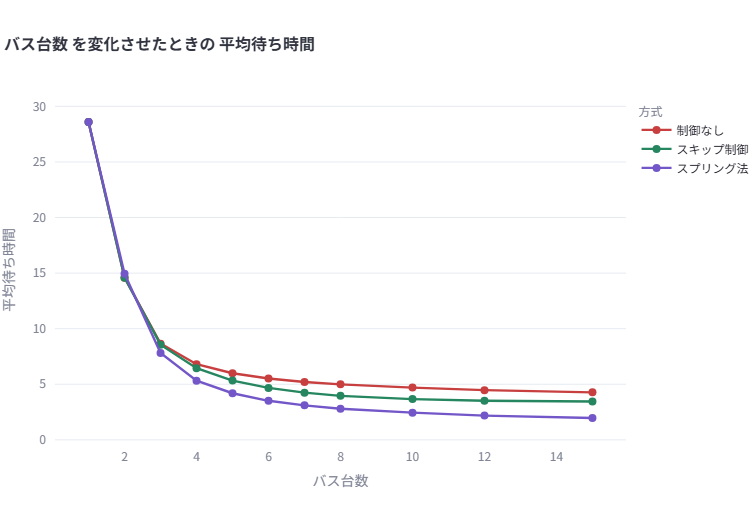
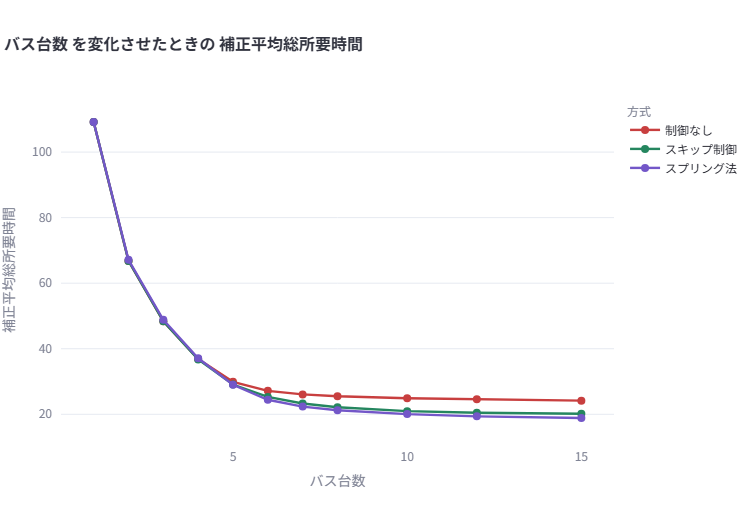
Refine presentation slides and conclusion flow

diff --git a/index.html b/index.html
@@ -14,14 +14,9 @@
   <main class="deck">
 
     <section class="slide cover">
-      <div class="frame">
-        <div class="stack" style="align-content:center;gap:2.4vh">
-          <div class="eyebrow">最近の活動紹介 / 15分発表</div>
-          <h1>だんご<br>バス3台</h1>
-          <p class="subtitle">団子運転を、シミュレーション・現場制約・複数分野の視点から考える</p>
-          <div class="tag-row"><span class="tag">自作HTMLシミュレーター</span><span class="tag">スプリング制御</span><span class="tag">NEC REFLEX</span><span class="tag">EV時代の運行設計</span></div>
-        </div>
-        <div class="image-card" style="background:#ffd91b;box-shadow:0 30px 70px rgba(180,130,0,.20)"><img src="assets/images/dango_bus_3.png" alt="だんごバス3台のイラスト"></div>
+      <div class="frame cover-frame">
+        <div class="image-card cover-image"><img src="assets/images/dango_bus_3.png" alt="だんごバス3台のイラスト"></div>
+        <p class="subtitle cover-subtitle">団子運転をシミュレーションから考える</p>
       </div>
       <div class="slide-no"></div>
       <aside class="notes"><b>導入：</b>だんご3兄弟のパロディとして軽く入る。身近な「バスが3台連続で来る」体験から、シミュレーション、制御、現場制約、EV時代の運行設計まで広げる。</aside>
@@ -63,25 +58,17 @@
     </section>
 
     <section class="slide terada">
-      <div class="frame two-col wide-left">
+      <div class="frame terada-frame">
         <div class="card stack quote-card">
-          <span class="eyebrow">100年前の洞察</span>
+          <span class="eyebrow">100年前の小話</span>
           <h2>寺田寅彦は、<br>すでに「混雑の波」を見ていた</h2>
-          <p>1922年の随筆『電車の混雑について』では、混雑した電車と空いた電車が周期的に現れること、そして乗客がそれを観察して行動を変え得ることが描かれている。</p>
-          <div class="success">これは後半で出てくる「混雑情報を見て、乗客が自発的に分散する」という発想の伏線になる。</div>
-        </div>
-        <div class="card stack">
-          <h3>今回のテーマとのつながり</h3>
-          <div class="final-list">
-            <div class="final-item"><div class="num">1</div><p>混雑はランダムではなく、波として現れることがある。</p></div>
-            <div class="final-item"><div class="num">2</div><p>人の行動は、混雑の波を強めることも弱めることもある。</p></div>
-            <div class="final-item"><div class="num">3</div><p>だから団子運転は、車両だけでなく乗客も含むシステム問題として見る必要がある。</p></div>
-          </div>
+          <p>物理学者・寺田寅彦は、1922年の随筆『電車の混雑について』で、混雑した電車と空いた電車が周期的に現れる様子を観察している。</p>
+          <p>今の言葉で言えば、公共交通の混雑を「偶然のばらつき」ではなく、時間とともに形を変える現象として見ていた。</p>
           <p class="source-inline">出典：寺田寅彦『電車の混雑について』初出「思想」1922年9月。</p>
         </div>
       </div>
       <div class="slide-no"></div>
-      <aside class="notes"><b>話すこと：</b>寺田寅彦を入れることで、単なる最新技術話ではなく「昔から鋭く観察されていた現象を、現代のデータとシミュレーションで扱う」という厚みを出す。</aside>
+      <aside class="notes"><b>話すこと：</b>ここでは「100年前に既に団子運転に近い現象を指摘していた物理学者がいた」という小話として軽く触れる。テーマとのつながりは、後半の乗客行動のスライドで改めて回収する。</aside>
     </section>
 
     <section class="slide">
@@ -122,17 +109,24 @@
       <aside class="notes"><b>話すこと：</b>スキップは「乗せない」ではなく「後続に任せる」。スプリング法は車間均等化の考え方。ただし次のスライドで「それだけでは不十分」と展開する。</aside>
     </section>
 
-    <section class="slide">
+    <section class="slide spring-discovery">
       <div class="frame stack" style="grid-template-rows:auto 1fr auto">
         <div>
-          <span class="eyebrow">ドラマ部分</span>
+          <span class="eyebrow">逆効果の発見</span>
           <h2 style="margin-top:1vh">スプリング法は有望。でも、ある条件で逆効果が見えた</h2>
         </div>
-        <div class="timeline drama-timeline">
-          <div class="step"><b>① 発見</b><p>シミュレーションで、高需要時にスプリング制御が思ったほど効かない、または悪化するケースを確認。</p></div>
-          <div class="step"><b>② 原因検討</b><p>AIと一緒に原因を分解。車間だけを見て満車バスを保持すると、車内客と後続に副作用が出るのでは？と仮説化。</p></div>
-          <div class="step"><b>③ 論文発見</b><p>車両容量を考慮したリアルタイム保持制御の研究にたどり着く。問題意識が先行研究とつながった。</p></div>
-          <div class="step"><b>④ 検証・克服</b><p>満員時の保持禁止を入れて再実験。高需要時の逆効果を抑えられる方向が見えた。</p></div>
+        <div class="discovery-grid">
+          <div class="timeline drama-timeline compact">
+            <div class="step"><b>① 発見</b><p>高需要時に、スプリング制御が思ったほど効かない、または悪化するケースを確認。</p></div>
+            <div class="step"><b>② 原因検討</b><p>車間だけを見て満車バスを保持すると、車内客と後続に副作用が出るのではないかと仮説化。</p></div>
+            <div class="step"><b>③ 論文発見</b><p>車両容量を考慮したリアルタイム保持制御の研究にたどり着く。</p></div>
+            <div class="step"><b>④ 検証</b><p>満員時の保持禁止を入れて再実験し、高需要時の副作用を抑える方向を確認。</p></div>
+          </div>
+          <div class="card tight stack chart-card">
+            <h3>保持禁止なし</h3>
+            <div class="image-card" style="height:43vh;box-shadow:none;border:1px solid #e6ebf4"><img src="assets/images/demand_wait_no_full_hold_ban.png" alt="満員時保持禁止なしの需要倍率別平均待ち時間"></div>
+            <p class="small">高需要側で、平均待ち時間が悪化する条件が見える。</p>
+          </div>
         </div>
         <div class="callout"><p>ポイント：制御ロジックは「車間」だけでなく、「そのバスを今止める意味があるか」まで見ないと危ない。</p></div>
       </div>
@@ -266,19 +260,19 @@
       <aside class="notes"><b>説明：</b>終盤のまとめ図。交通工学・制御工学・OR・データサイエンス・経済学・行動科学・都市計画・公共政策・環境工学・人的要因・公平性・情報システムが相互に関係することを見せる。</aside>
     </section>
 
-    <section class="slide">
-      <div class="frame two-col wide-right">
-        <div class="stack">
+    <section class="slide conclusion">
+      <div class="frame stack" style="grid-template-rows:auto 1fr">
+        <div>
           <span class="eyebrow">結論</span>
           <h2>今回の探求から<br>見えたこと</h2>
-          <div class="final-list">
-            <div class="final-item"><div class="num">1</div><p>団子運転は、小さな遅れが増幅するシステム現象。</p></div>
-            <div class="final-item"><div class="num">2</div><p>スプリング法は有望だが、満車・車内客・停留所容量を無視すると逆効果もある。</p></div>
-            <div class="final-item"><div class="num">3</div><p>高需要では、台数・容量・乗降時間短縮などハード面の改善が効きやすい。</p></div>
-            <div class="final-item"><div class="num">4</div><p>バス団子運転は、交通工学・制御・OR・行動科学・環境・現場運用が絡む総合問題。</p></div>
-          </div>
         </div>
-        <div class="image-card" style="background:#ffd91b"><img src="assets/images/dango_bus_3.png" alt="だんごバス3台"></div>
+        <div class="final-list conclusion-list">
+          <div class="final-item"><div class="num">1</div><p>団子運転は、小さな遅れが乗客集中・乗降時間増・さらなる遅れを生む正のフィードバックで増幅する。</p></div>
+          <div class="final-item"><div class="num">2</div><p>制御なし・スキップ制御・スプリング法を同じ条件で比べると、平均待ち時間だけでなく、満車・乗車不可・車間の乱れも見る必要がある。</p></div>
+          <div class="final-item"><div class="num">3</div><p>スプリング法は車間を整える有望な考え方だが、満員車両を保持すると車内客の遅れと後続への副作用を増やす恐れがある。</p></div>
+          <div class="final-item"><div class="num">4</div><p>満員時保持禁止のように容量制約を入れると、高需要時の逆効果を抑えられる。制御は、現場で観測できる条件に合わせて設計する必要がある。</p></div>
+          <div class="final-item"><div class="num">5</div><p>高需要では、運行制御だけでなく台数・容量・乗降時間短縮、混雑情報による分散、REFLEXやEV充電を含む運用制約の統合が重要になる。</p></div>
+        </div>
       </div>
       <div class="slide-no"></div>
       <aside class="notes"><b>締め：</b>軽い入口から入ったが、実はデータ・制御・現場制約・行動科学・環境まで関係する奥深いテーマだった、とまとめる。質問へ。</aside>

diff --git a/assets/css/style.css b/assets/css/style.css
@@ -43,12 +43,19 @@ ul{margin:.4em 0 0 1.2em;padding:0}.small{font-size:clamp(14px,1.05vw,18px);colo
 @media print{html,body{height:auto;background:#fff;overflow:visible}.deck{height:auto;background:#fff}.slide{position:relative;display:flex!important;width:100vw;height:56.25vw;page-break-after:always;break-after:page;overflow:hidden}.hud,.progress,.notes-panel{display:none!important}.slide::after,.slide .slide-no{display:none}.source{bottom:2vh}.frame{height:100%;width:100%}}
 
 /* v2 refinements */
+.cover::after{display:none;}
+.cover-frame{grid-template-columns:1fr!important;grid-template-rows:1fr auto;align-items:center;justify-items:center;gap:2.2vh;}
+.cover-image{width:min(820px,78vw);height:min(620px,70vh);background:#ffd91b;box-shadow:0 30px 70px rgba(180,130,0,.20);padding:clamp(14px,2vw,26px);}
+.cover-subtitle{text-align:center;color:#17213b;font-size:clamp(26px,2.6vw,46px);font-weight:900;line-height:1.18;}
 .slide.image-only{padding:0;background:#fff;display:none;align-items:center;justify-content:center;}
 .slide.image-only.active{display:flex;}
 .slide.image-only::after,.slide.image-only .slide-no{display:none!important;}
 .full-image{width:100vw;height:100vh;object-fit:contain;display:block;background:#fff;}
 .source-inline{font-size:clamp(13px,1vw,17px);color:#7a8398;font-weight:700;margin-top:1vh;}
 .kpi-grid.four{grid-template-columns:repeat(4,1fr);}
+.terada-frame{display:flex;align-items:center;justify-content:center;}
+.terada .quote-card{width:min(1120px,82vw);padding:clamp(34px,3.8vw,64px);gap:2.2vh;}
+.terada .quote-card p{font-size:clamp(21px,1.7vw,30px);}
 .drama-timeline{grid-template-columns:repeat(4,1fr);align-items:stretch;}
 .drama-timeline .step{display:flex;flex-direction:column;gap:.7vh;min-height:36vh;border-top:8px solid #f0a828;}
 .drama-timeline .step:nth-child(2){border-top-color:#7056d8;}
@@ -56,6 +63,16 @@ ul{margin:.4em 0 0 1.2em;padding:0}.small{font-size:clamp(14px,1.05vw,18px);colo
 .drama-timeline .step:nth-child(4){border-top-color:#268b63;}
 .drama-timeline .step b{font-size:clamp(22px,2vw,34px);}
 .drama-timeline .step p{font-size:clamp(17px,1.25vw,23px);}
+.discovery-grid{display:grid;grid-template-columns:1.05fr .95fr;gap:1.8vw;align-items:stretch;}
+.drama-timeline.compact{grid-template-columns:1fr;gap:1vh;}
+.drama-timeline.compact .step{min-height:auto;padding:clamp(16px,1.25vw,22px);}
+.drama-timeline.compact .step b{font-size:clamp(18px,1.55vw,27px);}
+.drama-timeline.compact .step p{font-size:clamp(15px,1.08vw,20px);line-height:1.45;}
+.spring-discovery .chart-card h3{font-size:clamp(22px,1.9vw,31px);}
+.spring-discovery .chart-card .small{font-size:clamp(14px,1vw,17px);}
 .quote-card{background:linear-gradient(135deg,#fff,#fff7db);}
 .terada .final-item p{font-size:clamp(17px,1.22vw,23px);}
-@media (max-aspect-ratio: 4/3){.kpi-grid.four{grid-template-columns:repeat(2,1fr)}.drama-timeline{grid-template-columns:1fr 1fr}.drama-timeline .step{min-height:auto}}
+.conclusion-list{grid-template-columns:1fr;gap:1.05vh;}
+.conclusion-list .final-item{padding:.78em 1em;border-radius:20px;}
+.conclusion-list .final-item p{font-size:clamp(16px,1.17vw,22px);line-height:1.43;}
+@media (max-aspect-ratio: 4/3){.kpi-grid.four{grid-template-columns:repeat(2,1fr)}.drama-timeline{grid-template-columns:1fr 1fr}.drama-timeline.compact{grid-template-columns:1fr}.drama-timeline .step{min-height:auto}.discovery-grid{grid-template-columns:1fr}.cover-image{height:min(54vh,560px)}}

diff --git a/speaker_notes.md b/speaker_notes.md
@@ -18,11 +18,11 @@
 8. 複数分野との関連と結論（1分）
 
 ## この版で反映した重点
-- タイトルは「だんごバス3台」。
+- タイトルスライドは画像を主役にし、サブタイトルは「団子運転をシミュレーションから考える」に整理。
 - 正のフィードバックループ画像は全面表示。
 - 路線の模式図は削除。
-- 「スプリング逆効果の発見 → AIと原因検討 → 論文発見 → 検証 → 克服」の流れをドラマとして追加。
-- 寺田寅彦『電車の混雑について』を、乗客の自発的分散の伏線として追加。
+- 「スプリング逆効果の発見 → 原因検討 → 論文発見 → 検証 → 克服」の流れに、満員時保持禁止なしのグラフを追加。
+- 寺田寅彦『電車の混雑について』は、100年前の観察として小話に絞り、テーマとの接続は後半で触れる。
 - EV充電は否定的に見せず、「運行と充電を一体設計する未来」として前向きに整理。
 - 複数分野との関連は、添付の総まとめ画像を使用。
 